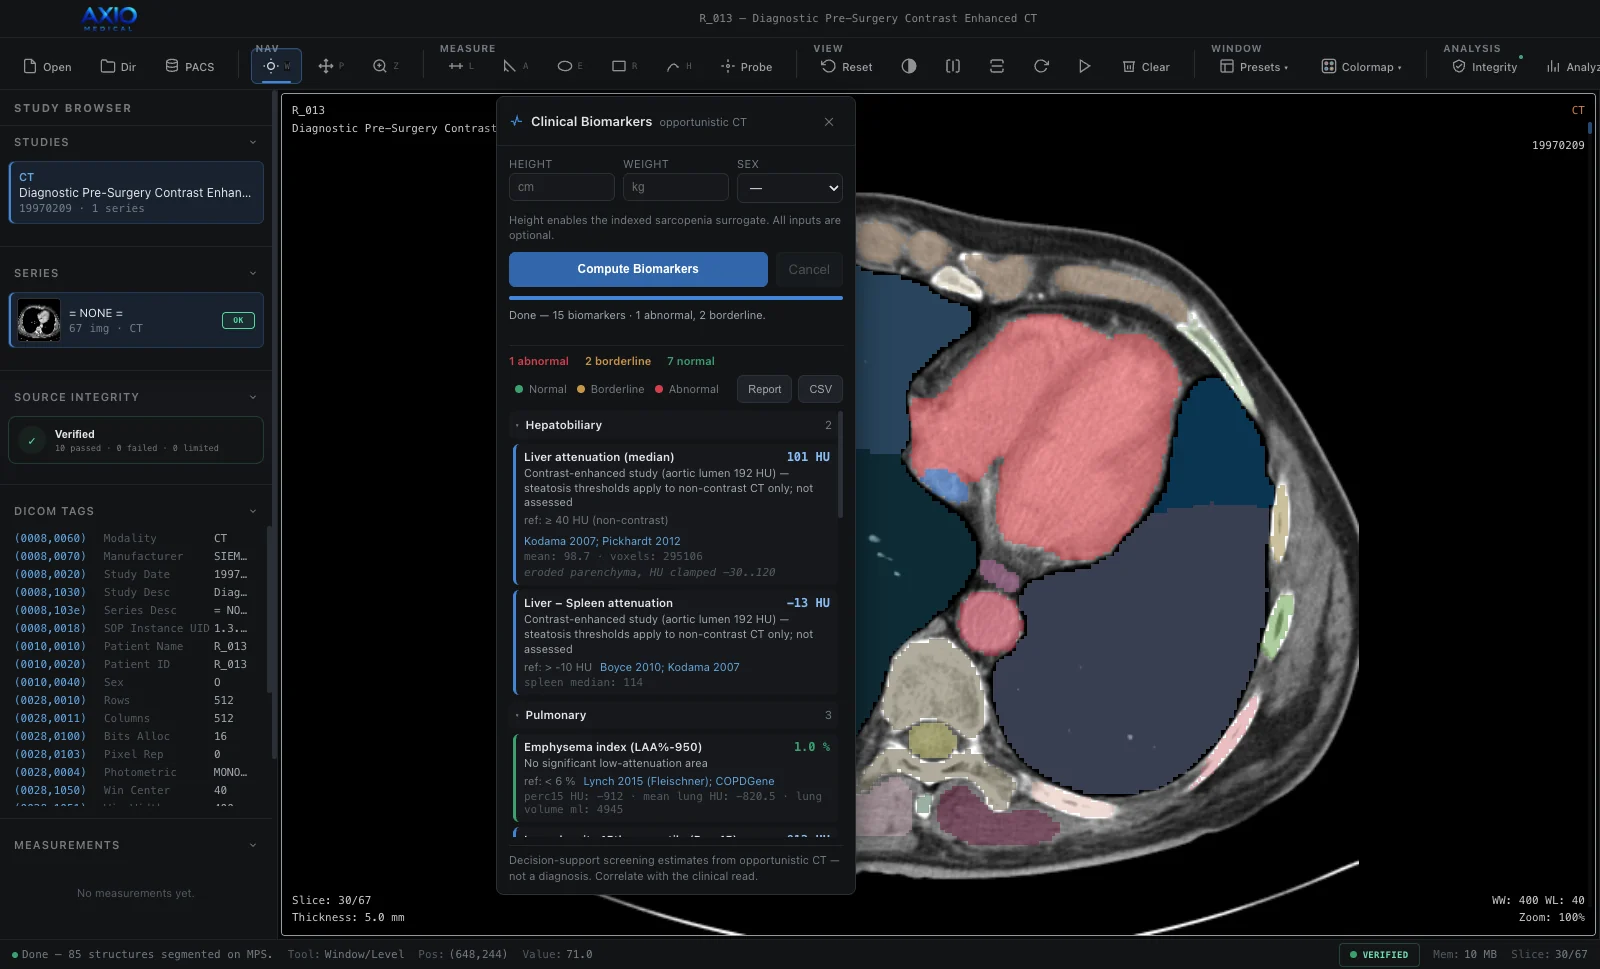
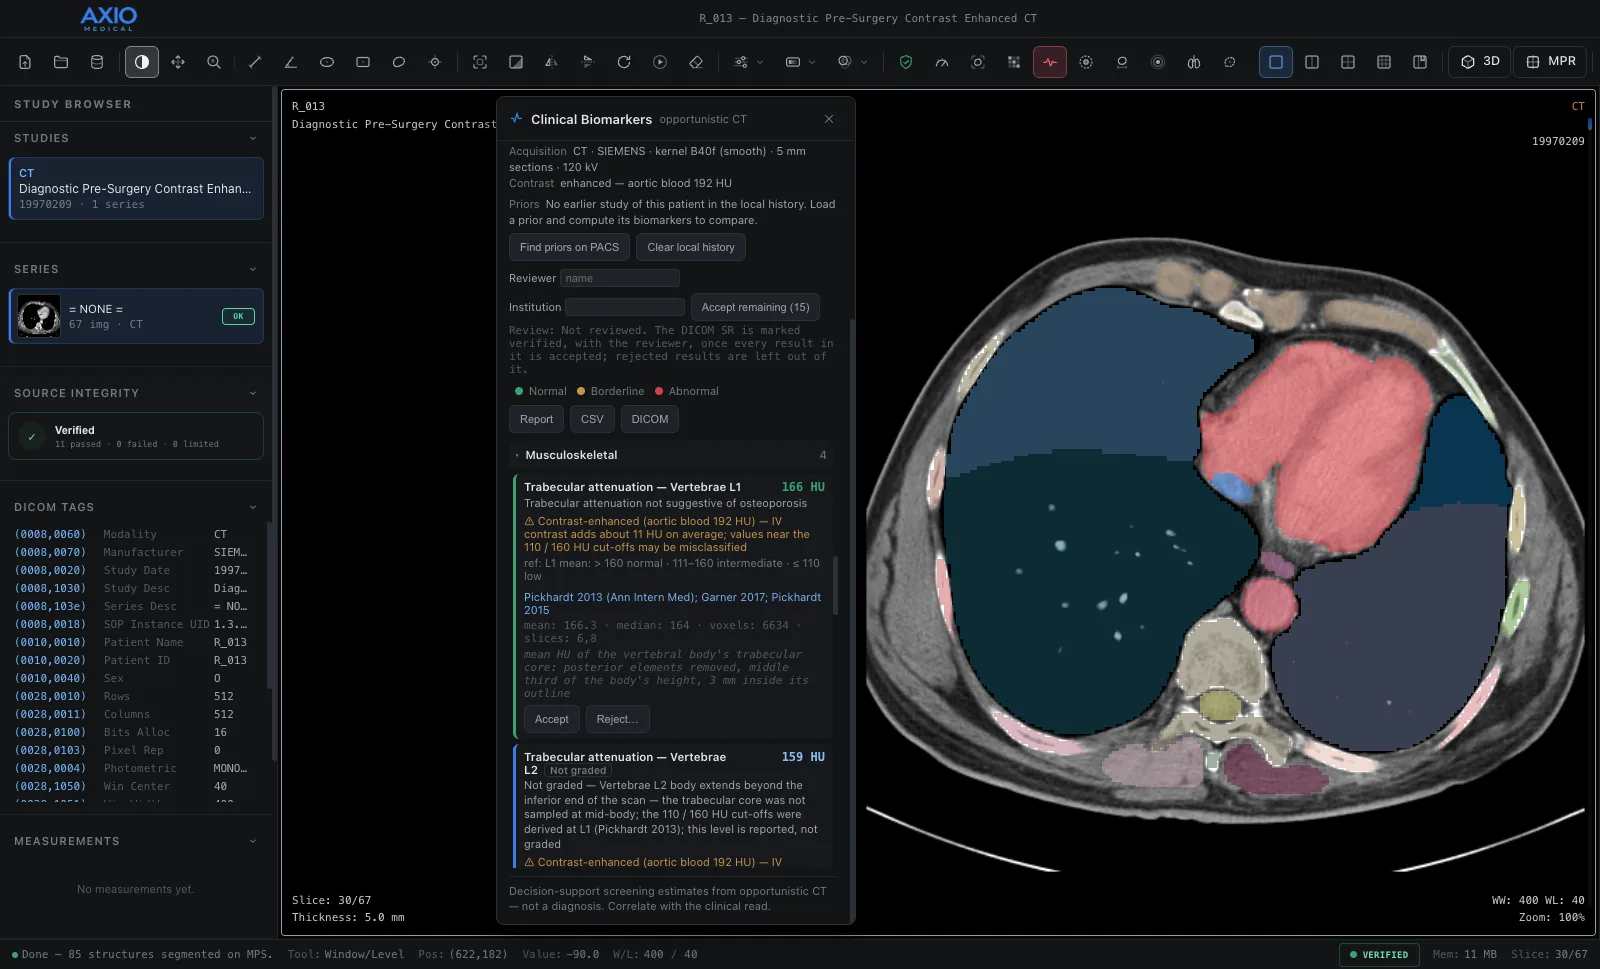
Website: current 2.8.14 screenshots — overview, biomarkers, cinematic, social preview

diff --git a/index.html b/index.html
@@ -79,7 +79,7 @@
         <img src="img/hero.webp" width="1600" height="969" fetchpriority="high"
              alt="AXIO Medical showing an axial chest CT with AI segmentation overlaid: lung lobes, heart, aorta, vertebra and ribs each in their own colour.">
       </div>
-      <figcaption class="caption">A contrast-enhanced chest CT from the public TCIA LungCT-Diagnosis collection, segmented on-device into 85 anatomical structures in 84 seconds on an Apple M4.</figcaption>
+      <figcaption class="caption">A contrast-enhanced chest CT from the public TCIA LungCT-Diagnosis collection, segmented on-device into 85 anatomical structures in 86 seconds on an Apple M4.</figcaption>
     </figure>
 
     <dl class="mt-12 grid grid-cols-2 gap-x-6 gap-y-8 border-t border-line pt-10 md:grid-cols-4">
@@ -320,16 +320,16 @@
       <figure class="mt-10">
         <div class="figure-frame">
           <img src="img/biomarkers.webp" width="1600" height="969" loading="lazy"
-               alt="The Clinical Biomarkers panel listing hepatobiliary, pulmonary and musculoskeletal measures with values, flags and literature references.">
+               alt="The Clinical Biomarkers panel: the acquisition and contrast checks, the review controls, and L1 trabecular attenuation of 166 HU flagged normal, with its reference range, its sources and a contrast warning.">
         </div>
-        <figcaption class="caption">Every biomarker carries its value, its reference range and its source, and is flagged normal, borderline, abnormal or informational.</figcaption>
+        <figcaption class="caption">Every biomarker carries its value, its reference range and its source, and is flagged normal, borderline or abnormal. When the scan does not meet a criterion’s conditions the result is left not graded, or carries a warning: here L1 reads 166 HU, normal, with a note that IV contrast adds about 11 HU.</figcaption>
       </figure>
     </div>
 
     <div class="mt-20">
       <h3 class="font-display text-[20px] font-semibold">How long a full pass takes</h3>
       <dl class="mt-6 grid gap-px overflow-hidden rounded-lg border border-line bg-line sm:grid-cols-2 lg:grid-cols-4">
-        <div class="bg-panel p-5"><dt class="text-[13px] text-ink-3">Segmentation</dt><dd class="stat-num mt-1 text-[24px]">84 s</dd><dd class="mt-1 font-mono text-[11px] text-ink-4">85 structures · Apple GPU</dd></div>
+        <div class="bg-panel p-5"><dt class="text-[13px] text-ink-3">Segmentation</dt><dd class="stat-num mt-1 text-[24px]">86 s</dd><dd class="mt-1 font-mono text-[11px] text-ink-4">85 structures · Apple GPU</dd></div>
         <div class="bg-panel p-5"><dt class="text-[13px] text-ink-3">Radiomics</dt><dd class="stat-num mt-1 text-[24px]">120 s</dd><dd class="mt-1 font-mono text-[11px] text-ink-4">85 structures · CPU</dd></div>
         <div class="bg-panel p-5"><dt class="text-[13px] text-ink-3">Biomarkers</dt><dd class="stat-num mt-1 text-[24px]">3 s</dd><dd class="mt-1 font-mono text-[11px] text-ink-4">15 measures</dd></div>
         <div class="bg-panel p-5"><dt class="text-[13px] text-ink-3">Lung risk</dt><dd class="stat-num mt-1 text-[24px]">358 s</dd><dd class="mt-1 font-mono text-[11px] text-ink-4">risk-model ensemble · CPU</dd></div>
@@ -368,8 +368,8 @@
         <figcaption class="caption">21 AutoSeg structures as surfaces, left anterior oblique, in the colours of the 2D overlay: five lung lobes, the trachea, the heart and great vessels, the portal and splenic vein, and the spinal cord. Each surface is calibrated to enclose its structure's voxel volume.</figcaption>
       </figure>
       <figure role="tabpanel" id="p-cine" aria-labelledby="t-cine" hidden>
-        <div class="figure-frame"><img src="img/cinematic.webp" width="1600" height="969" loading="lazy" alt="Cinematic volume rendering of the chest CT with volumetric shadows and ambient occlusion."></div>
-        <figcaption class="caption">Cinematic rendering with volumetric shadows, ambient occlusion and subsurface scattering derived from attenuation.</figcaption>
+        <div class="figure-frame"><img src="img/cinematic.webp" width="1600" height="969" loading="lazy" alt="Cinematic volume rendering of the chest from the front: ribs, sternum and clavicles over the heart and liver, each segmented structure in its anatomical colour."></div>
+        <figcaption class="caption">Cinematic rendering on WebGPU after AutoSeg: volumetric scattering, ambient occlusion and subsurface scattering, with each segmented structure in its anatomical reference colour while opacity and shading follow Hounsfield units. Blood &amp; Bone preset; the 67 slices are interpolated to 335.</figcaption>
       </figure>
       <figure role="tabpanel" id="p-pt" aria-labelledby="t-pt" hidden>
         <div class="figure-frame"><img src="img/pt-anterior.webp" width="1600" height="836" loading="lazy" alt="Path-traced anterior view of the chest with the heart and aorta in red, the inferior vena cava in blue and the lung lobes in shades of blue."></div>

diff --git a/overview.html b/overview.html
@@ -319,8 +319,8 @@
     </div>
 
     <figure class="mt-12">
-      <div class="figure-frame"><img src="img/biomarkers.webp" width="1600" height="969" loading="lazy" alt="The Clinical Biomarkers panel listing hepatobiliary, pulmonary and musculoskeletal measures with values, flags and literature references."></div>
-      <figcaption class="caption">Every biomarker carries its value, its reference range and its source, and is flagged normal, borderline, abnormal or informational.</figcaption>
+      <div class="figure-frame"><img src="img/biomarkers.webp" width="1600" height="969" loading="lazy" alt="The Clinical Biomarkers panel: the acquisition and contrast checks, the review controls, and L1 trabecular attenuation of 166 HU flagged normal, with its reference range, its sources and a contrast warning."></div>
+      <figcaption class="caption">Every biomarker carries its value, its reference range and its source, and is flagged normal, borderline or abnormal. When the scan does not meet a criterion’s conditions the result is left not graded, or carries a warning: here L1 reads 166 HU, normal, with a note that IV contrast adds about 11 HU.</figcaption>
     </figure>
   </div>
 </section>
